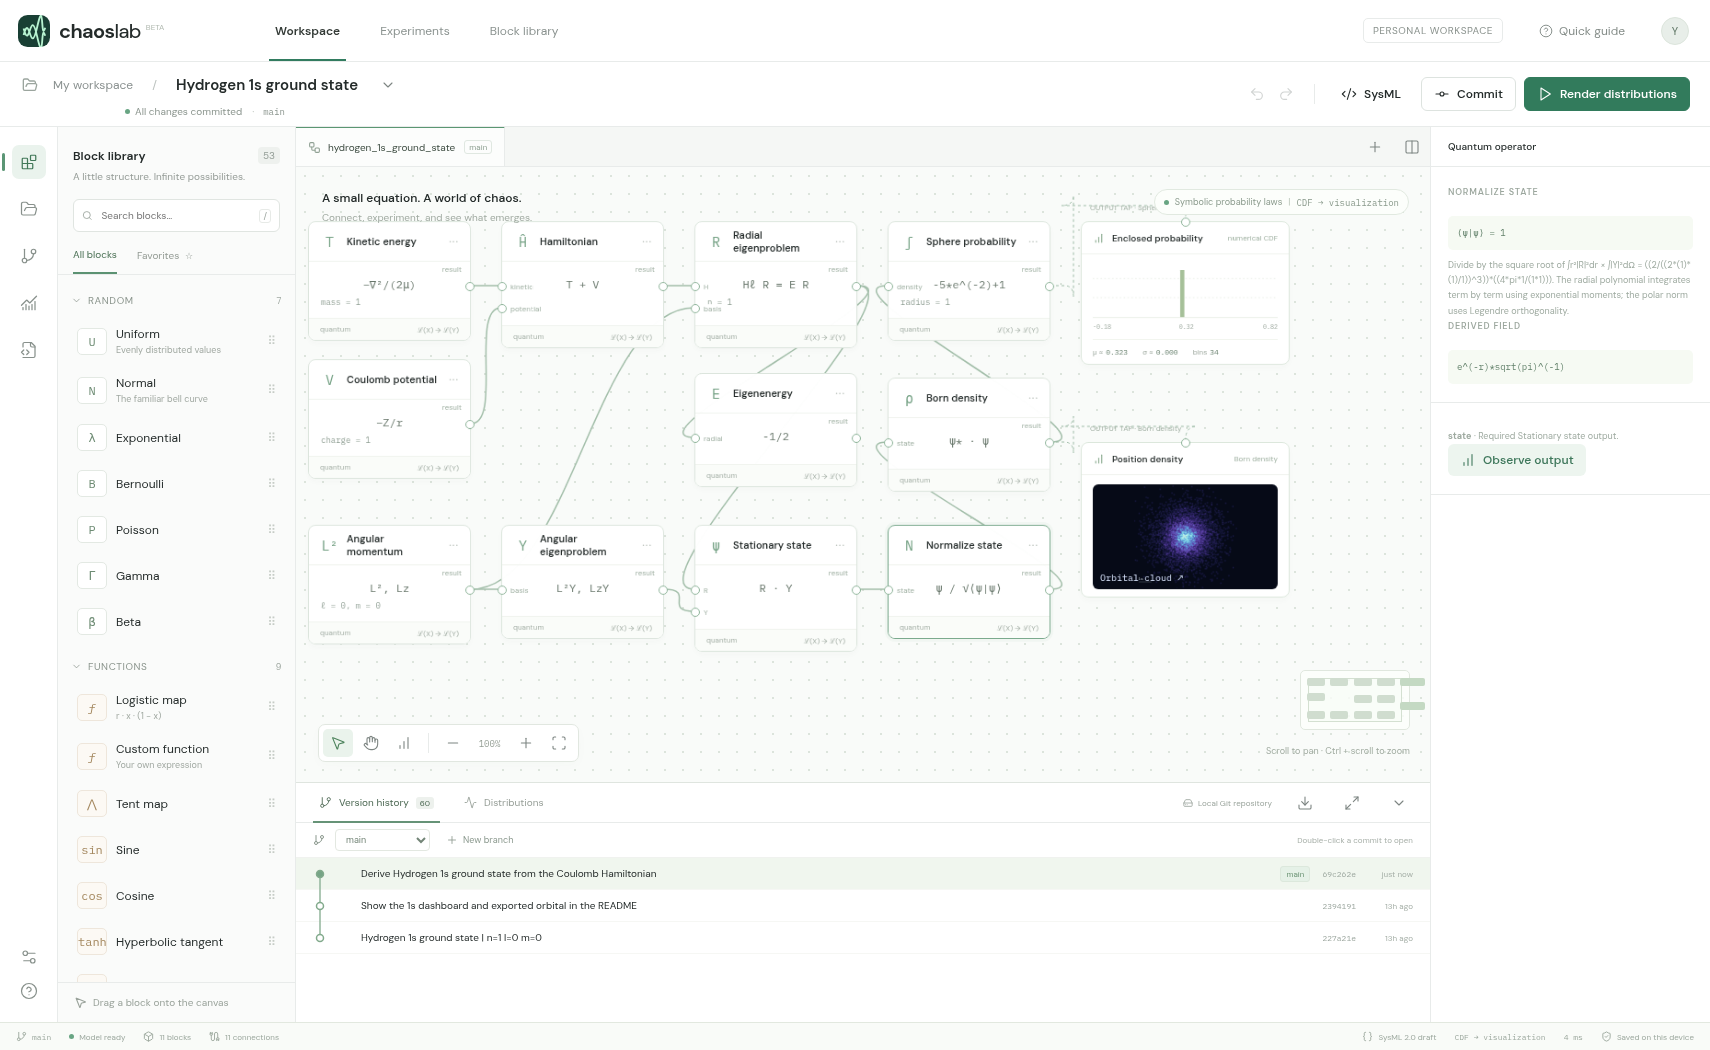
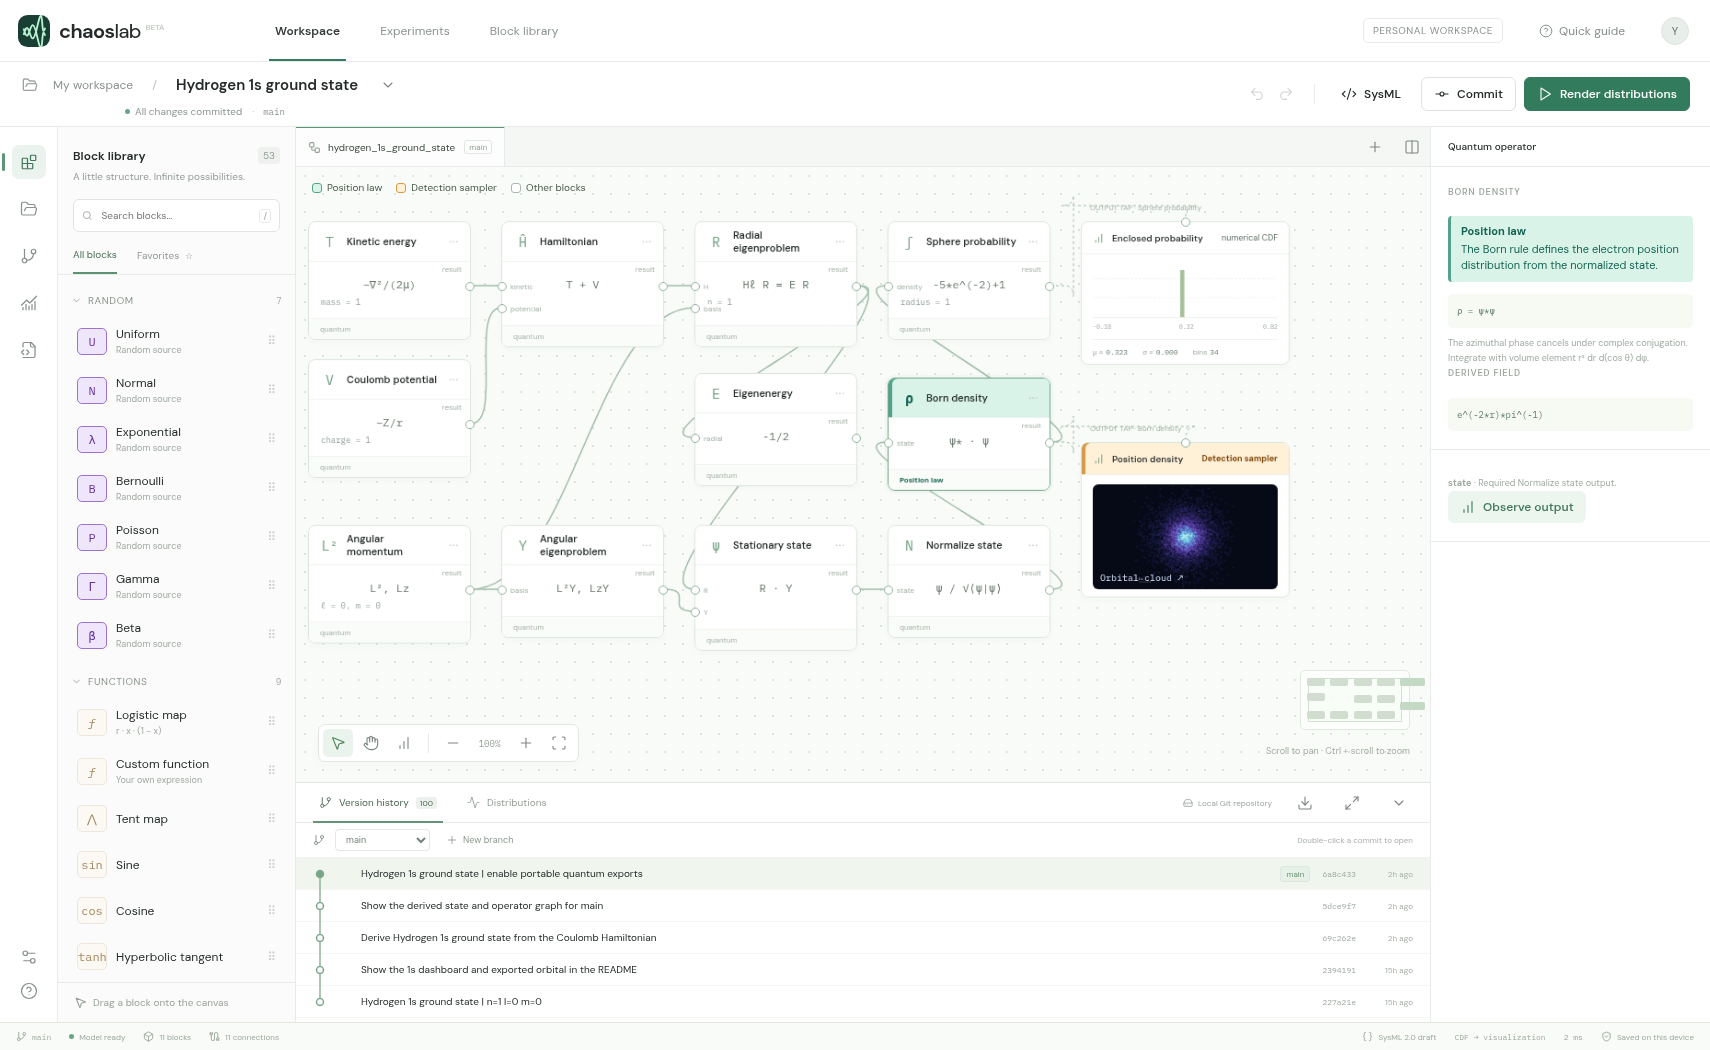
Hydrogen 1s ground state | identify the position law and detection sampler

diff --git a/studio.py b/studio.py
@@ -10,7 +10,7 @@ import tempfile
 import webbrowser
 
 ROOT = Path(__file__).resolve().parent
-STUDIO_REV = "1cc30c5632f1fe1f79a11ab6730f82c36a6c01e4"
+STUDIO_REV = "8657d6ecd3aa33a5a28f43219d5d6bfb8aa3edcc"
 STUDIO_REPO = "https://github.com/wa200508/chaos_lab.git"
 
 

diff --git a/README.md b/README.md
@@ -6,6 +6,8 @@ Open **Version history** in Chaos Lab to explore the 20 hydrogen designs in this
 
 The connected Hamiltonian and eigenstate solvers give $E=-1/2$ Hartree for this state.
 
+On the canvas, teal **Position law** marks where the Born rule defines the distribution of electron positions. Amber **Detection sampler** marks the tap that draws positions for the projected cloud. The central slice evaluates the density directly.
+
 ![Chaos Lab dashboard with the 1s model, m = 0, open in version history](dashboard.png)
 
 Each dot is a simulated electron position drawn from the 1s probability law and projected onto the image plane.
